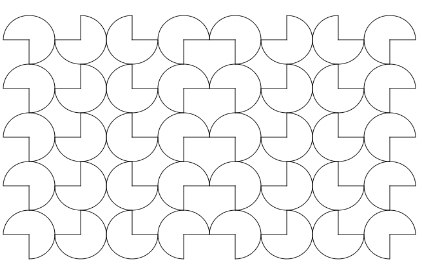
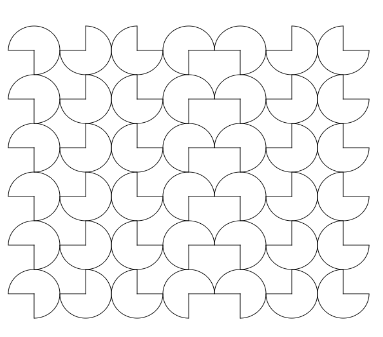
Teknőc 14

diff --git a/teknoc/014.md b/teknoc/014.md
@@ -1,0 +1,18 @@
+![](/teknoc/output/014.png)
+
+```c
+to kor :m
+  pd fd :m lt 90 arc 270 :m fd :m pu
+end
+
+to sor :m :x
+  repeat :x [repeat repcount-1 [fd :m rt 90 bk :m] kor :m repeat repcount [bk :m lt 90 fd :m]
+  lt 90 fd :m*2 lt 90] pu bk :m*2 rt 90 bk :m*2*:x  lt 90
+end
+
+to sokkor :m :x :y
+  repeat :y [sor :m :x]
+end
+
+pu setxy  -270 150 sokkor 40 7 6 ht
+```
